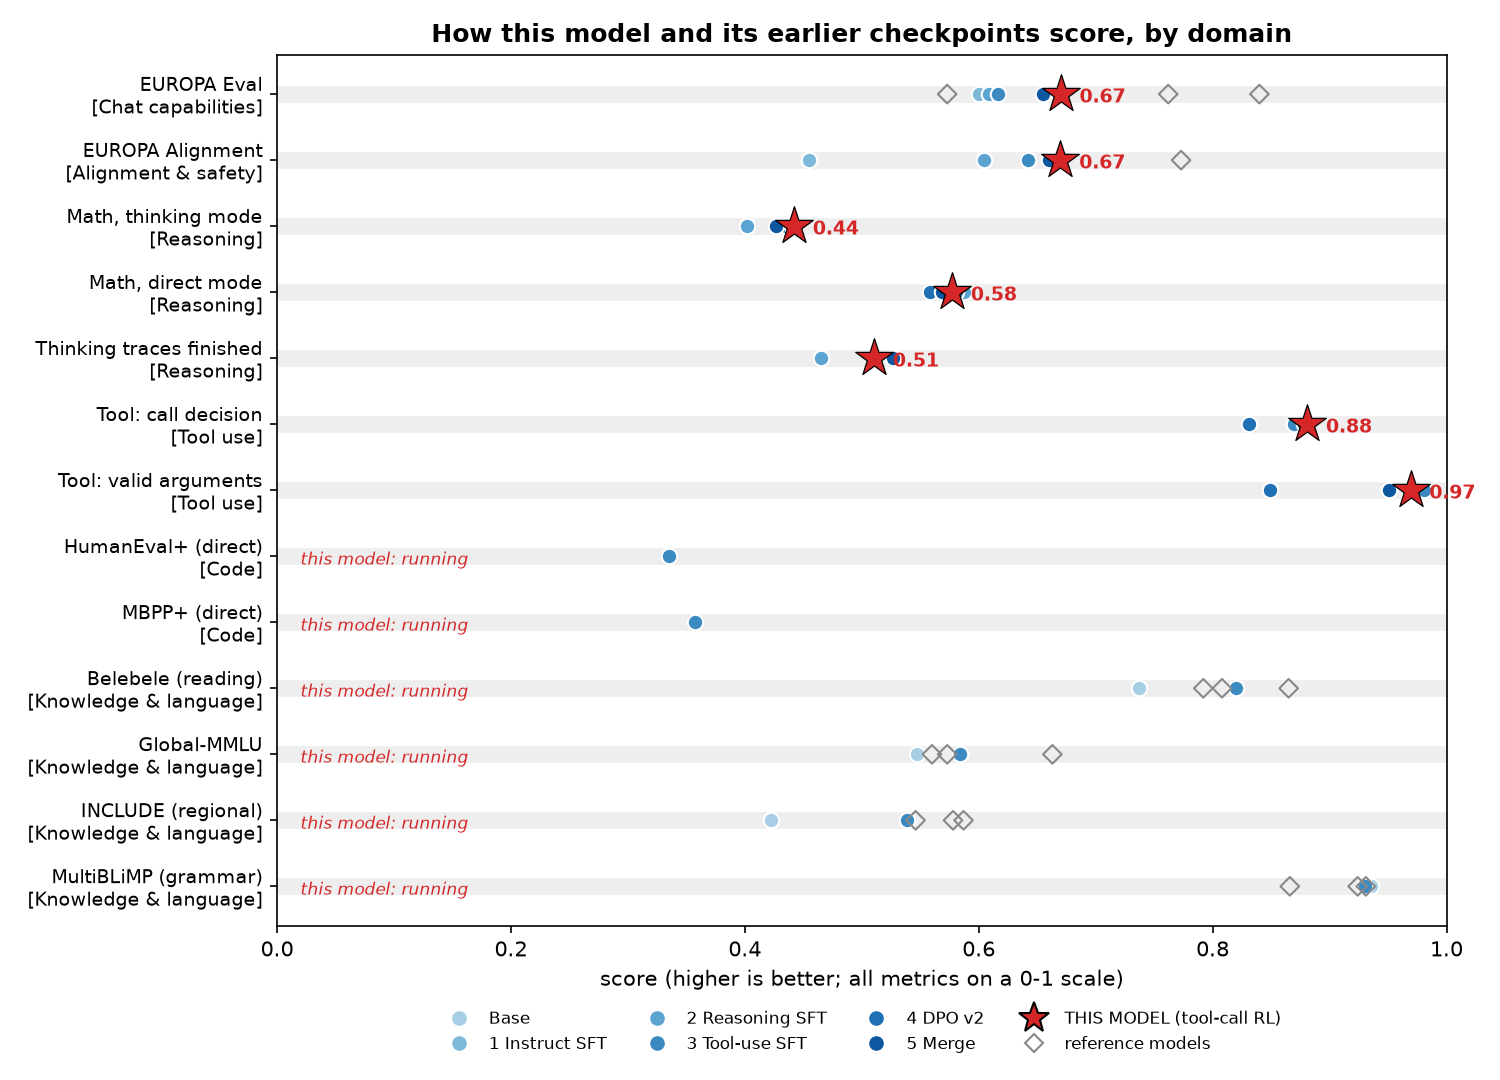
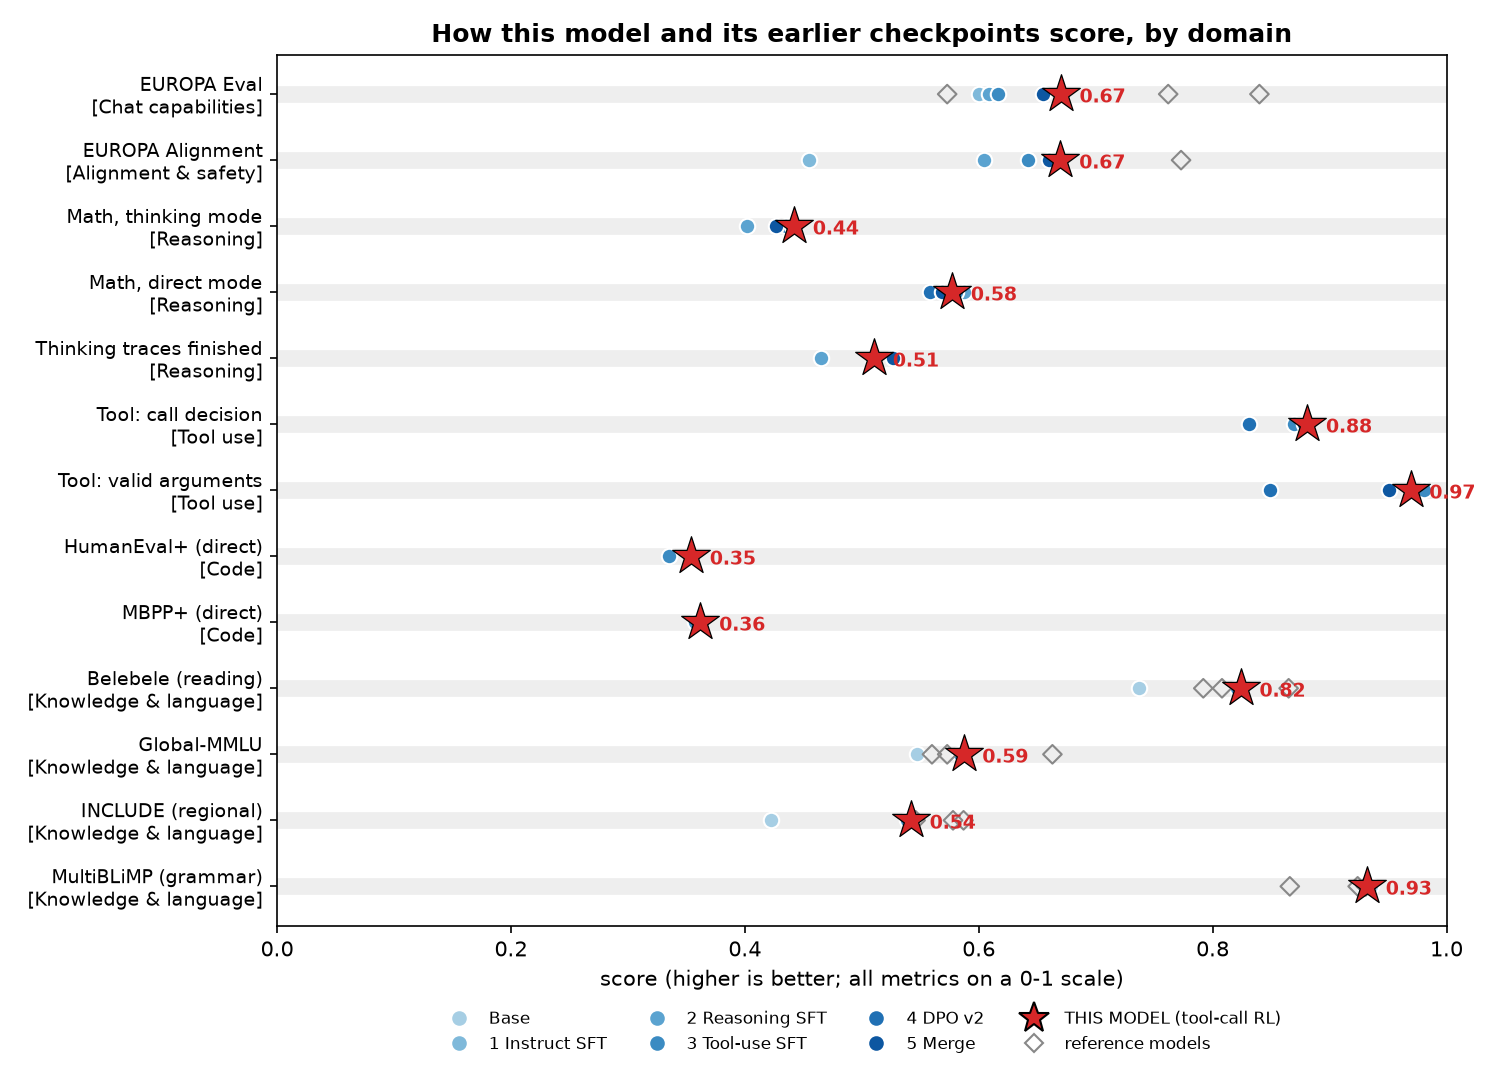
A4b card: EvalPlus and oellm-eval results for this model

diff --git a/scripts/write_model_card_evals.py b/scripts/write_model_card_evals.py
@@ -69,12 +69,15 @@ def glance(data: dict) -> str:
         "",
         "**In short.**",
         "- **Strongest:** tool calling (the best call decisions and tool names in the lineage, valid JSON 99.5 %);",
-        "  reading comprehension and grammar in European languages (Belebele 0.82, MultiBLiMP 0.93 at step 3); safe and",
-        "  well-formed behaviour overall (EUROPA Alignment 0.67, the best in the lineage).",
+        "  reading comprehension and grammar in European languages (Belebele 0.82, MultiBLiMP 0.93, above the project's",
+        "  other SFT and DPO models); safe and well-formed behaviour overall (EUROPA Alignment 0.67, best in the lineage).",
+        "- **Knowledge kept:** DPO, merging and RL left Belebele, Global-MMLU, INCLUDE and MultiBLiMP within ±0.005 of",
+        "  the tool-use SFT, +4 to +12 points above the base.",
         "- **Improved by DPO, merge and RL:** EUROPA Eval 0.62 → 0.67, mostly from quantitative answers (0.04 → 0.31),",
         "  agentic control and fewer malformed answers (122 → 100).",
         "- **Weakest:** thinking mode often does not finish (about half the traces hit the 6K-token limit), so thinking",
-        "  mode is less accurate than direct mode; code is weak (HumanEval+ ≈ 0.34 at step 3); grounding & safety (0.70 →",
+        "  mode is less accurate than direct mode; code is weak (HumanEval+ 0.35 / MBPP+ 0.36 direct, lower in thinking",
+        "  mode where many traces do not finish); grounding & safety (0.70 →",
         "  0.58), refusal calibration (0.44 → 0.35) and direct-mode EU-language math (0.45 → 0.31) regressed after DPO.",
         "- **Compared with other models:** above Apertus-8B-Instruct on EUROPA Eval (0.57) but below the project's",
         "  instruct SFT (0.76) and DPO (0.84) models, which come from a different SFT lineage.",
@@ -108,8 +111,7 @@ def evaluation(data: dict) -> str:
            "| oellm-eval v0.3.0 | knowledge and language competence, few-shot without chat template | Belebele 20, Global-MMLU 11, INCLUDE 11, MultiBLiMP 28 tasks | many European | project harness [OpenEuroLLM/oellm-eval](https://github.com/OpenEuroLLM/oellm-eval) |",
            "",
            f"![Every evaluation on every checkpoint]({IMG}/scorecard.png)", "",
-           "'–' means the evaluation was not run at that stage, and *running* means it is in progress for this",
-           "model. The card will be updated when it finishes.", "",
+           "'–' means the evaluation was not run at that stage.", "",
            "### EUROPA Eval and Alignment", "",
            f"![EUROPA scores along the pipeline]({IMG}/europa_progress.png)", "",
            "| Model | EUROPA Eval | malformed answers | EUROPA Alignment | malformed answers |", "|---|---|---|---|---|"]
@@ -157,6 +159,8 @@ def evaluation(data: dict) -> str:
             "| Model | HumanEval+ direct | MBPP+ direct | HumanEval+ thinking | MBPP+ thinking |", "|---|---|---|---|---|",
             f"| 3 Tool-use SFT | {fmt(s3.get('humaneval_plus_direct'))} | {fmt(s3.get('mbpp_plus_direct'))} | {fmt(s3.get('humaneval_plus_thinking'))} | {fmt(s3.get('mbpp_plus_thinking'))} |",
             f"| **6 Tool-call RL (this model)** | {fmt(t.get('humaneval_plus_direct'), True)} | {fmt(t.get('mbpp_plus_direct'), True)} | {fmt(t.get('humaneval_plus_thinking'), True)} | {fmt(t.get('mbpp_plus_thinking'), True)} |",
+            "", "Thinking mode scores lower than direct mode because many traces do not finish within 8,192 tokens (this model:",
+            "34 % of HumanEval+ and 55 % of MBPP+ traces close). Code is read only after a closed trace.",
             "", "### Knowledge and language (oellm-eval v0.3.0)", "",
             "| Model | Belebele | Global-MMLU | INCLUDE | MultiBLiMP |", "|---|---|---|---|---|"]
     for c in ("Base", "3 Tool-use SFT", this):

diff --git a/scripts/plot_model_card_evals.py b/scripts/plot_model_card_evals.py
@@ -36,9 +36,12 @@ KEYS = {  # checkpoint -> result names in the raw collection
 }
 # oellm-eval v0.3.0 means over the tasks all compared models completed (playbook 8.1) and EvalPlus pass@1 (plus).
 OELLM_EVAL = {"Base": {"belebele": 0.737, "global_mmlu": 0.547, "include": 0.422, "multiblimp": 0.935},
-              "3 Tool-use SFT": {"belebele": 0.820, "global_mmlu": 0.584, "include": 0.539, "multiblimp": 0.930}}
+              "3 Tool-use SFT": {"belebele": 0.821, "global_mmlu": 0.584, "include": 0.539, "multiblimp": 0.930},
+              THIS: {"belebele": 0.824, "global_mmlu": 0.587, "include": 0.542, "multiblimp": 0.932}}  # run 2026-10-26-16-27-08
 CODE = {"3 Tool-use SFT": {"humaneval_plus_direct": 0.335, "mbpp_plus_direct": 0.357,
-                           "humaneval_plus_thinking": 0.189, "mbpp_plus_thinking": 0.243}}
+                           "humaneval_plus_thinking": 0.189, "mbpp_plus_thinking": 0.243},
+        THIS: {"humaneval_plus_direct": 0.354, "mbpp_plus_direct": 0.362,  # EvalPlus job 62360803
+               "humaneval_plus_thinking": 0.165, "mbpp_plus_thinking": 0.254}}
 REFERENCES = {  # other models on the same EUROPA protocol / oellm-eval tasks
     "OpenEuroLLM instruct SFT (Neonkraft)": {"europa_eval": 0.762, "europa_alignment": 0.773,
                                               "belebele": 0.808, "global_mmlu": 0.573, "include": 0.546, "multiblimp": 0.931},

diff --git a/docs/model_cards/oellm-9b-256k-stage5-a4b-tool-rl-step48.md b/docs/model_cards/oellm-9b-256k-stage5-a4b-tool-rl-step48.md
@@ -54,20 +54,23 @@ code, strict formats) are still in progress.
 | Tool calling: right call or no call | held-out tool check | **0.881** | 0.870 | ▲ +0.011 |
 | Tool calling: correct tool names | held-out tool check | **0.784** | 0.734 | ▲ +0.050 |
 | Tool calling: valid arguments | held-out tool check | **0.969** | 0.981 | ▼ -0.012 |
-| Code | HumanEval+ (direct mode) | *running* | 0.335 |  |
-| Reading comprehension | Belebele | *running* | 0.820 |  |
-| Knowledge | Global-MMLU | *running* | 0.584 |  |
-| Regional knowledge | INCLUDE | *running* | 0.539 |  |
-| Grammar | MultiBLiMP | *running* | 0.930 |  |
+| Code | HumanEval+ (direct mode) | **0.354** | 0.335 | ▲ +0.019 |
+| Reading comprehension | Belebele | **0.824** | 0.821 | ≈ same |
+| Knowledge | Global-MMLU | **0.587** | 0.584 | ≈ same |
+| Regional knowledge | INCLUDE | **0.542** | 0.539 | ≈ same |
+| Grammar | MultiBLiMP | **0.932** | 0.930 | ≈ same |
 
 **In short.**
 - **Strongest:** tool calling (the best call decisions and tool names in the lineage, valid JSON 99.5 %);
-  reading comprehension and grammar in European languages (Belebele 0.82, MultiBLiMP 0.93 at step 3); safe and
-  well-formed behaviour overall (EUROPA Alignment 0.67, the best in the lineage).
+  reading comprehension and grammar in European languages (Belebele 0.82, MultiBLiMP 0.93, above the project's
+  other SFT and DPO models); safe and well-formed behaviour overall (EUROPA Alignment 0.67, best in the lineage).
+- **Knowledge kept:** DPO, merging and RL left Belebele, Global-MMLU, INCLUDE and MultiBLiMP within ±0.005 of
+  the tool-use SFT, +4 to +12 points above the base.
 - **Improved by DPO, merge and RL:** EUROPA Eval 0.62 → 0.67, mostly from quantitative answers (0.04 → 0.31),
   agentic control and fewer malformed answers (122 → 100).
 - **Weakest:** thinking mode often does not finish (about half the traces hit the 6K-token limit), so thinking
-  mode is less accurate than direct mode; code is weak (HumanEval+ ≈ 0.34 at step 3); grounding & safety (0.70 →
+  mode is less accurate than direct mode; code is weak (HumanEval+ 0.35 / MBPP+ 0.36 direct, lower in thinking
+  mode where many traces do not finish); grounding & safety (0.70 →
   0.58), refusal calibration (0.44 → 0.35) and direct-mode EU-language math (0.45 → 0.31) regressed after DPO.
 - **Compared with other models:** above Apertus-8B-Instruct on EUROPA Eval (0.57) but below the project's
   instruct SFT (0.76) and DPO (0.84) models, which come from a different SFT lineage.
@@ -169,8 +172,7 @@ The checkpoints are the stages of this model's own lineage:
 
 ![Every evaluation on every checkpoint](https://huggingface.co/birgermoell/oellm-9b-256k-stage5-a4b-tool-rl-step48/resolve/main/assets/scorecard.png)
 
-'–' means the evaluation was not run at that stage, and *running* means it is in progress for this
-model. The card will be updated when it finishes.
+'–' means the evaluation was not run at that stage.
 
 ### EUROPA Eval and Alignment
 
@@ -238,15 +240,18 @@ half of the traces do not finish within the budget.
 | Model | HumanEval+ direct | MBPP+ direct | HumanEval+ thinking | MBPP+ thinking |
 |---|---|---|---|---|
 | 3 Tool-use SFT | 0.335 | 0.357 | 0.189 | 0.243 |
-| **6 Tool-call RL (this model)** | *running* | *running* | – | – |
+| **6 Tool-call RL (this model)** | **0.354** | **0.362** | **0.165** | **0.254** |
+
+Thinking mode scores lower than direct mode because many traces do not finish within 8,192 tokens (this model:
+34 % of HumanEval+ and 55 % of MBPP+ traces close). Code is read only after a closed trace.
 
 ### Knowledge and language (oellm-eval v0.3.0)
 
 | Model | Belebele | Global-MMLU | INCLUDE | MultiBLiMP |
 |---|---|---|---|---|
 | Base | 0.737 | 0.547 | 0.422 | 0.935 |
-| 3 Tool-use SFT | 0.820 | 0.584 | 0.539 | 0.930 |
-| **6 Tool-call RL (this model)** | *running* | *running* | *running* | *running* |
+| 3 Tool-use SFT | 0.821 | 0.584 | 0.539 | 0.930 |
+| **6 Tool-call RL (this model)** | **0.824** | **0.587** | **0.542** | **0.932** |
 | *Reference: OpenEuroLLM instruct SFT (Neonkraft)* | 0.808 | 0.573 | 0.546 | 0.931 |
 | *Reference: Apertus-8B-Instruct-2509* | 0.792 | 0.560 | 0.578 | 0.924 |
 | *Reference: Qwen3-8B* | 0.865 | 0.663 | 0.587 | 0.866 |
